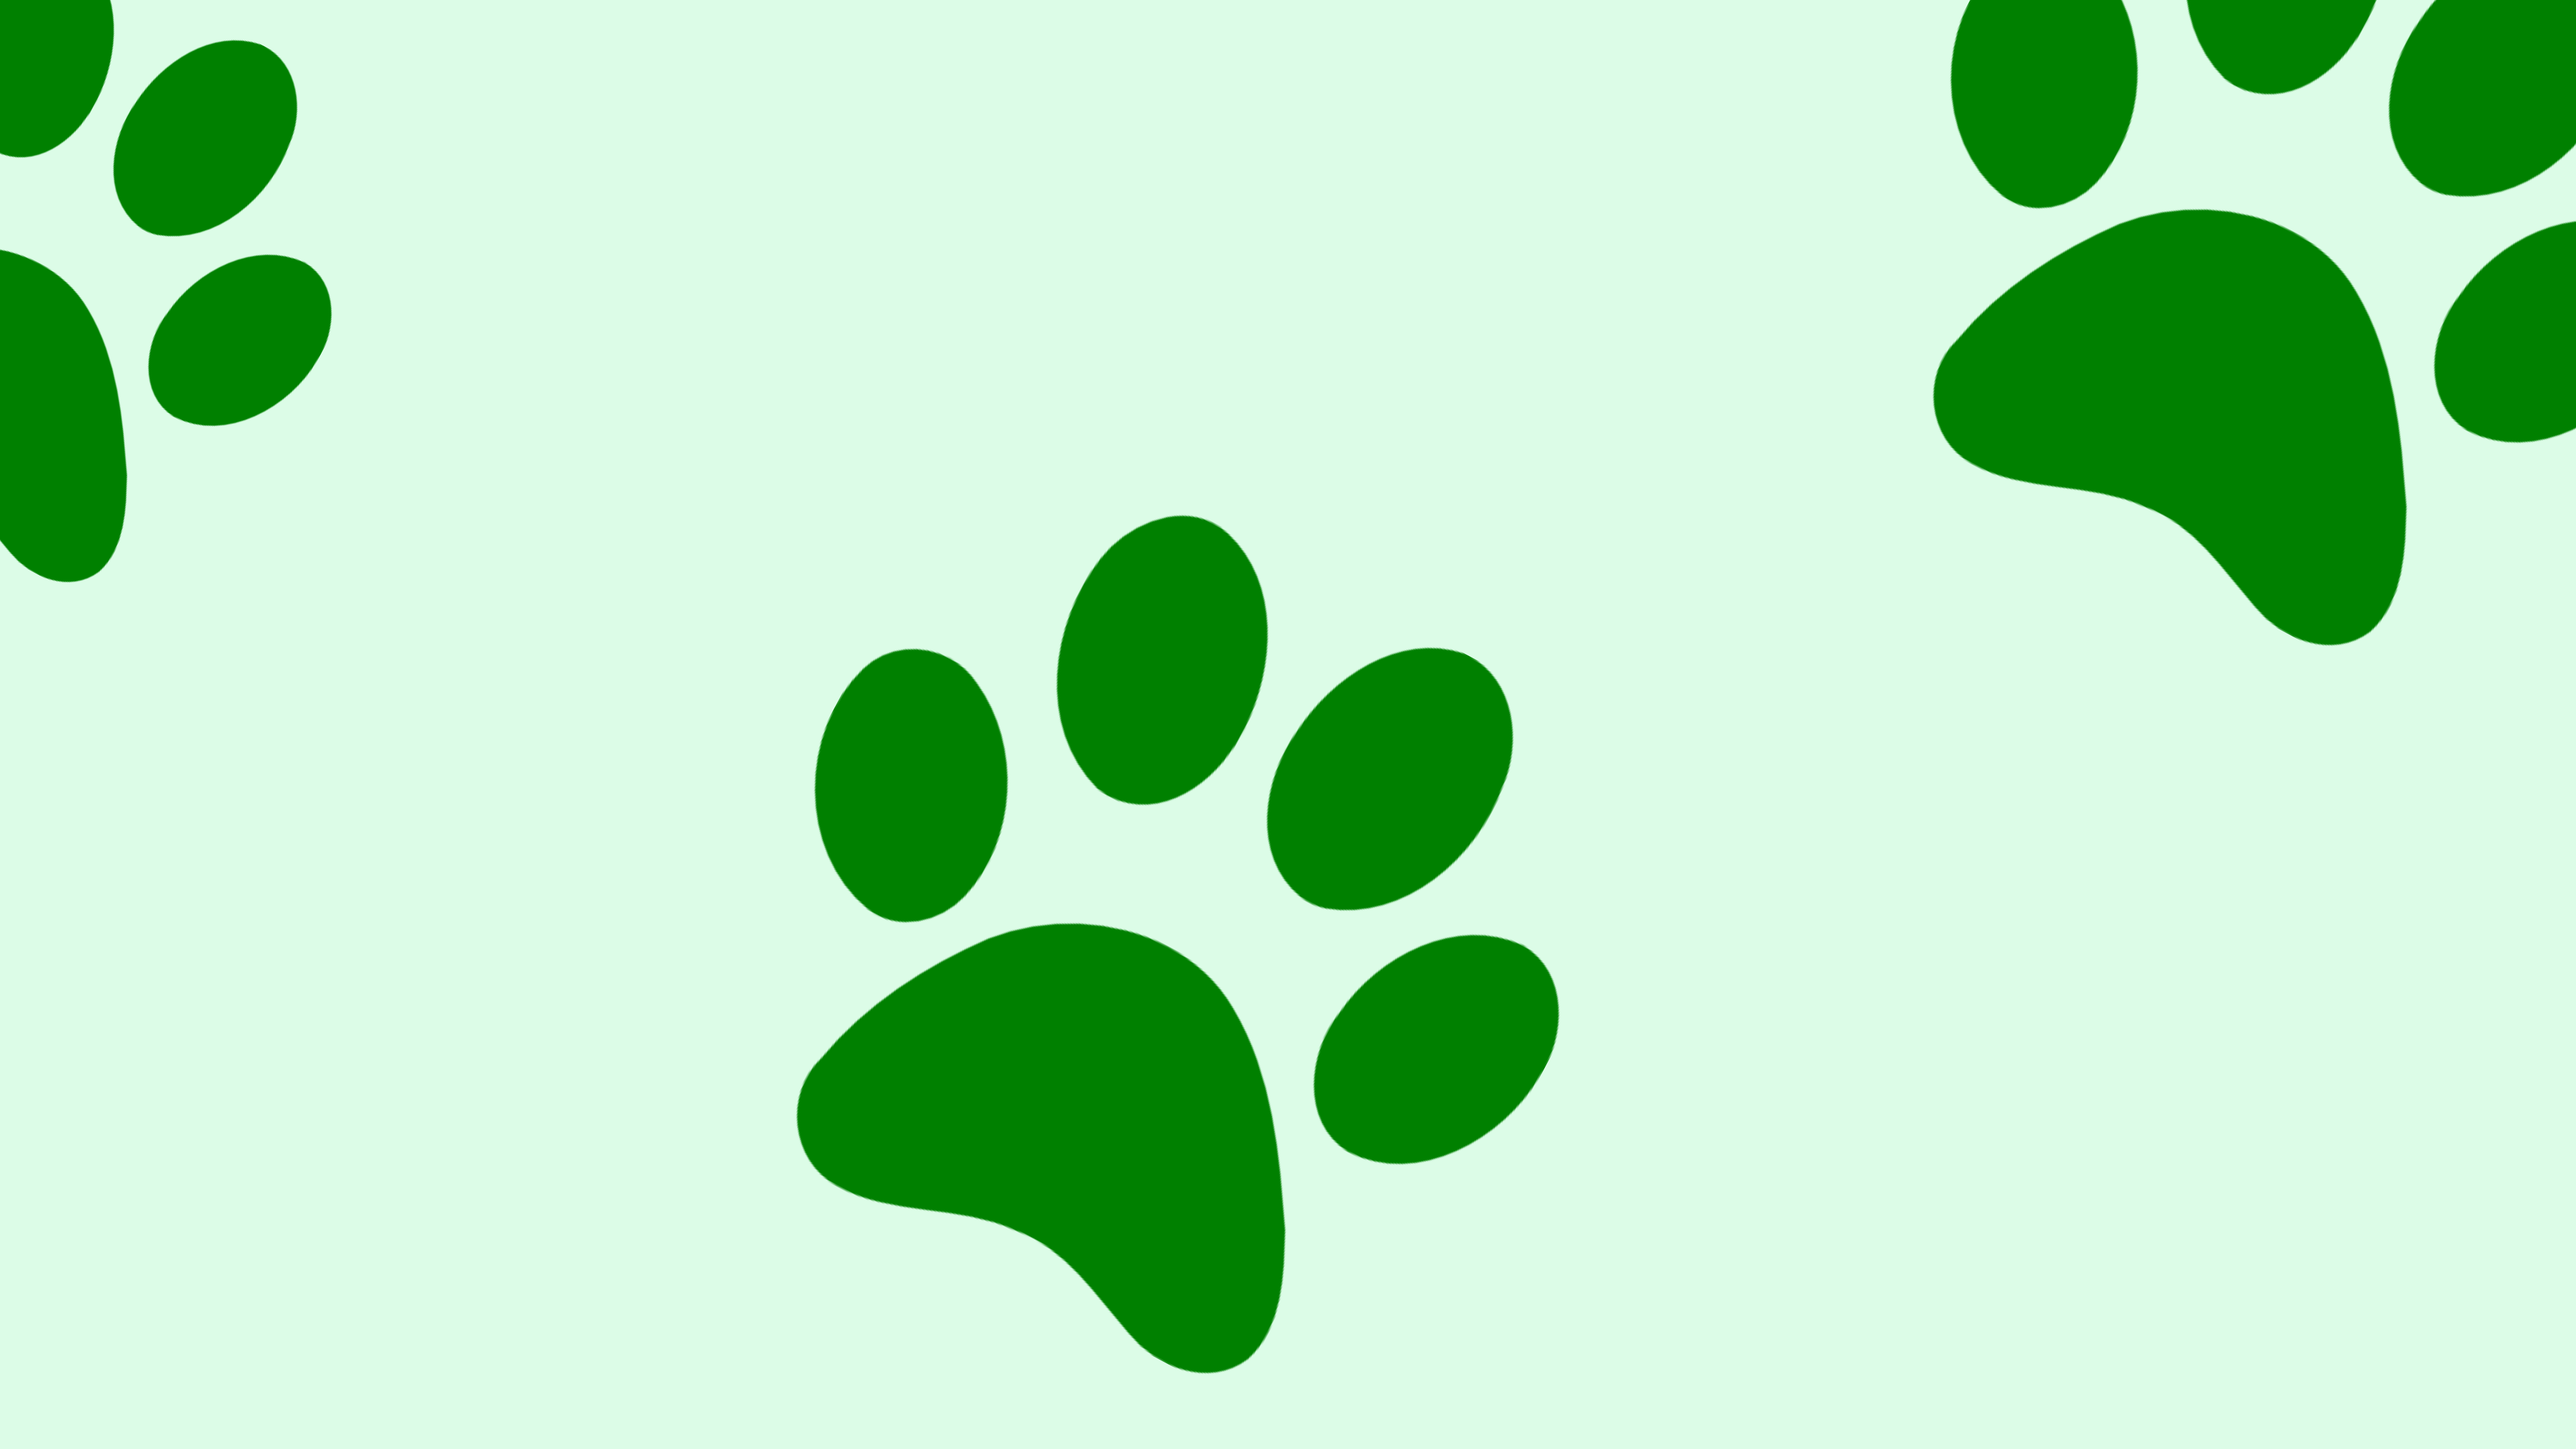
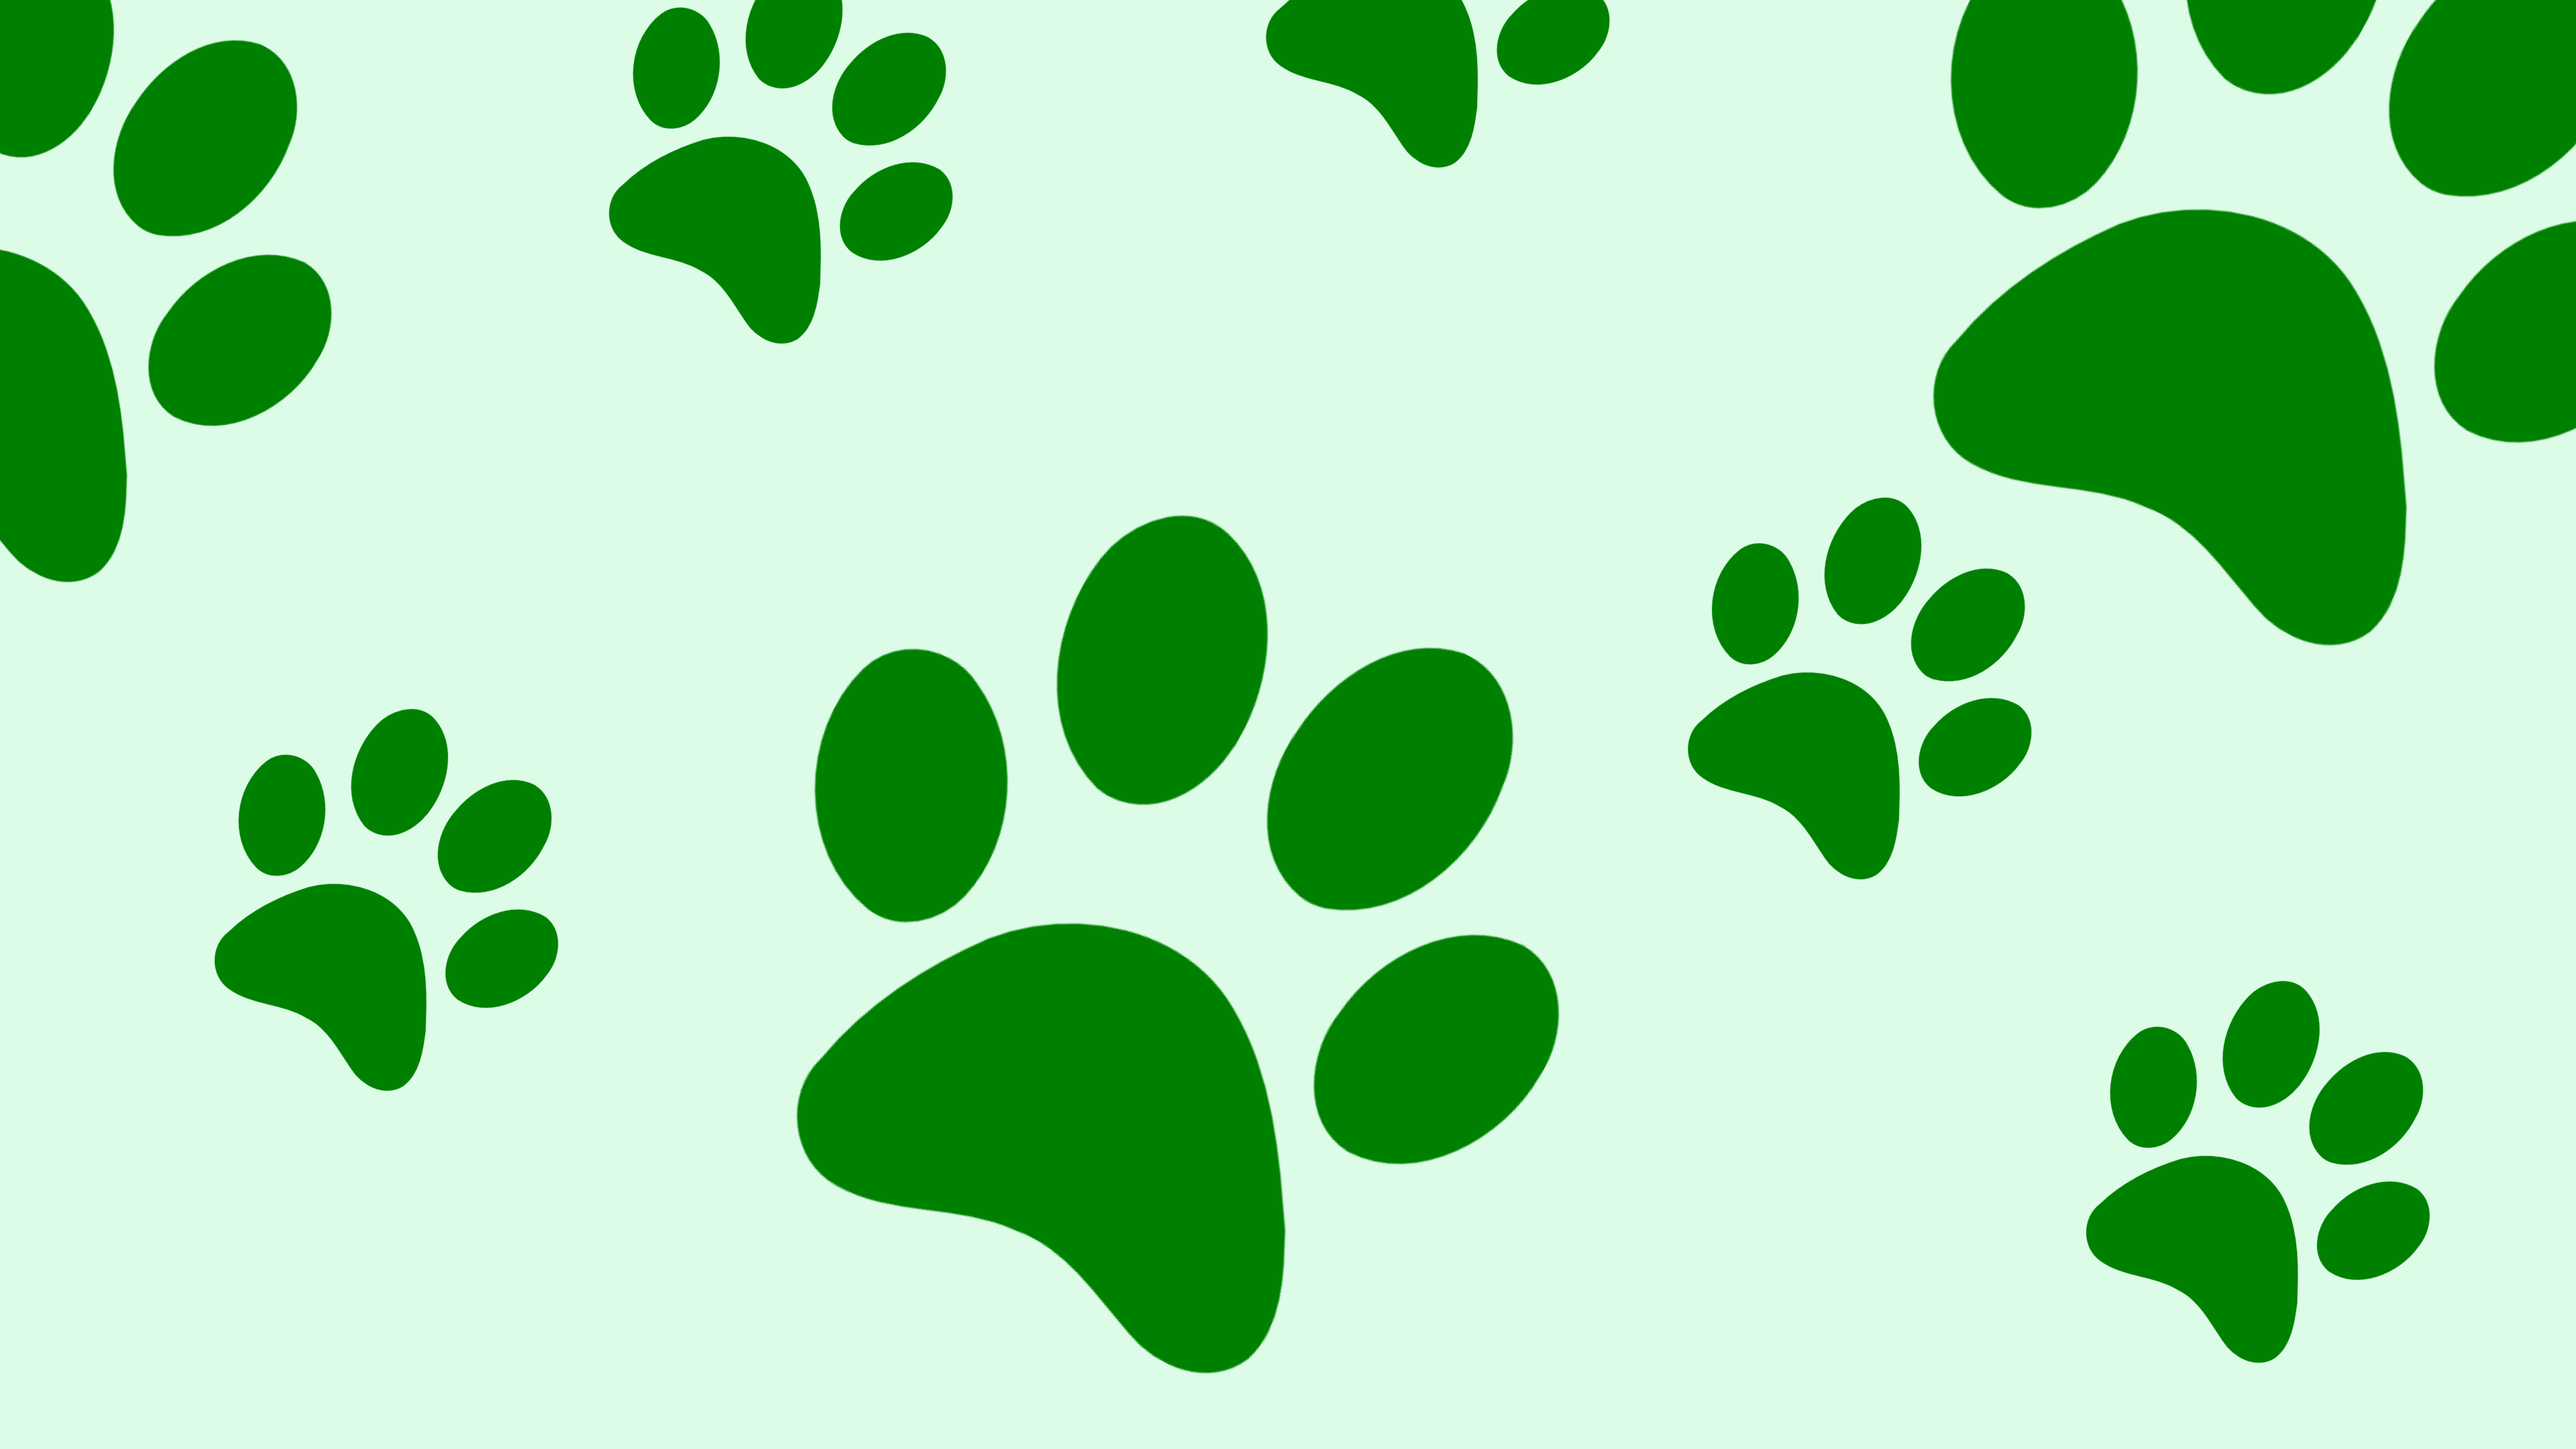
On branch rafraf  Your branch is up to date with 'origin/rafraf'.  Changes to be committed: 	modified:   assets/css/output.css 	modified:   assets/img/bg.png 	modified:   login.php

diff --git a/assets/css/output.css b/assets/css/output.css
@@ -869,6 +869,12 @@
   .bg-fixed {
     background-attachment: fixed;
   }
+  .bg-scroll {
+    background-attachment: scroll;
+  }
+  .bg-center {
+    background-position: center;
+  }
   .bg-no-repeat {
     background-repeat: no-repeat;
   }
@@ -1468,6 +1474,11 @@
         margin-block-start: calc(calc(var(--spacing) * 4) * var(--tw-space-y-reverse));
         margin-block-end: calc(calc(var(--spacing) * 4) * calc(1 - var(--tw-space-y-reverse)));
       }
+    }
+  }
+  .sm\:bg-fixed {
+    @media (width >= 40rem) {
+      background-attachment: fixed;
     }
   }
   .sm\:p-3 {

diff --git a/login.php b/login.php
@@ -24,7 +24,7 @@ if (SessionManager::isLoggedIn()) {
     <link rel="stylesheet" href="https://cdnjs.cloudflare.com/ajax/libs/font-awesome/6.0.0-beta3/css/all.min.css">
 </head>
 
-<body class="flex items-center justify-center min-h-screen px-4 bg-[url('../img/bg.png')] bg-fixed bg-no-repeat bg-cover">
+<body class="flex items-center justify-center min-h-screen px-4 bg-[url('../img/bg.png')] bg-scroll sm:bg-fixed bg-no-repeat bg-center bg-cover">
     <section class="w-full max-w-md bg-white rounded-lg shadow-xl p-6 sm:p-8">
         <!-- Icon -->
         <div class="w-full flex justify-center mb-2">
